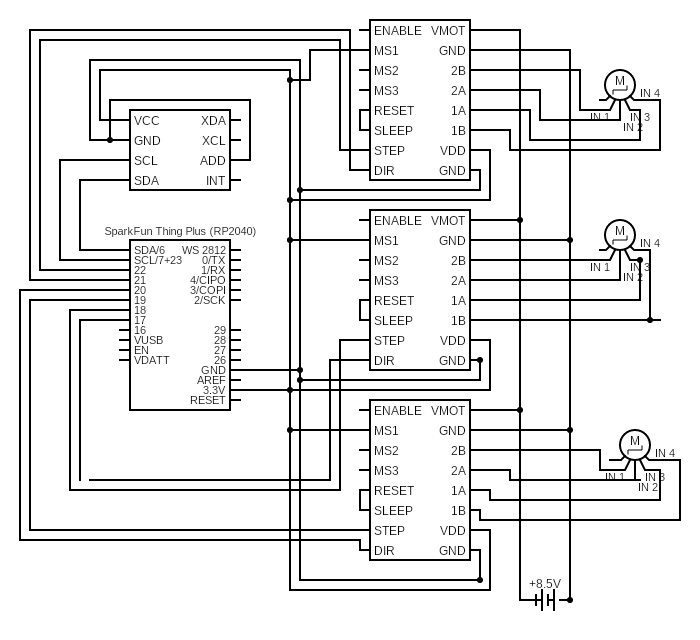
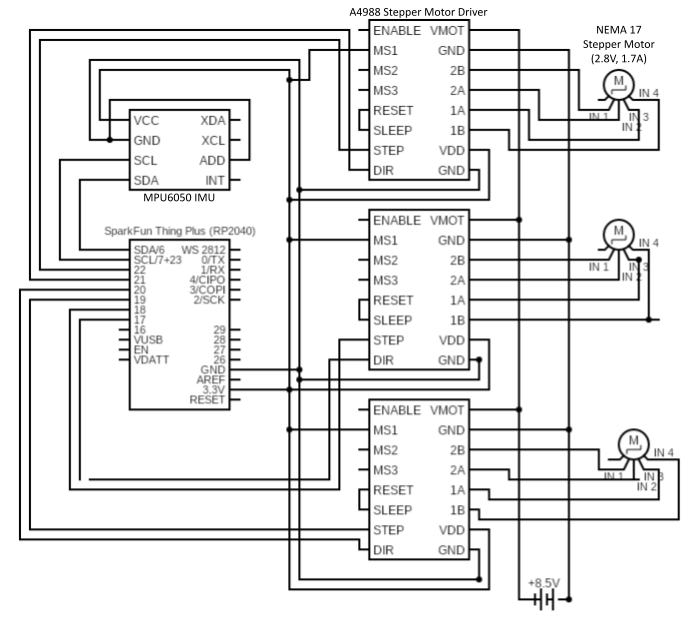
Finishing ballbot post

Changed region(s): [[0.0301, 0.0, 0.9943, 0.953]]

diff --git a/_posts/2022-03-18-BallBot.md b/_posts/2022-03-18-BallBot.md
@@ -1,0 +1,83 @@
+---
+layout: post
+title:  "Ball Balancing Robot"
+categories: [ Mechatronics, Controls, Solidworks, C ]
+image: assets/images/first_steps.gif
+featured: true
+hidden: true
+---
+
+Mechanical Design / Mechatronics / PID Control
+
+<iframe width="560" height="315" src="https://www.youtube.com/embed/7S1Z_5BLMUo" title="YouTube video player" frameborder="0" allow="accelerometer; autoplay; clipboard-write; encrypted-media; gyroscope; picture-in-picture" allowfullscreen></iframe>
+
+For my winter quarter independent study project, set out to build my own version of a BallBot, a dynamically stable / statically unstable robot. I am designed my bot from CAD to control algorithm, utilizing 3D printing, laser cutting, and C programming on an RP2040 microcontroller. 
+
+### Mechanical Design
+
+![CAD](https://algarv.github.io/Portfolio/assets/images/ballbot_CAD.png)
+
+I designed my chassis with inspiration from similar projects using Solidwork CAD to create 4 part adjustabl base. Each motor housing component is attached to the main chassis separately, so the angle can be adjusted, which allowed me to test on various sizes of balls. 
+
+### Building the Structure and Fundamental Electronics
+
+![Circuit Diagram](https://algarv.github.io/Portfolio/assets/images/circuit.png)
+
+
+After printing and assembling the chassis pieces, I mounted the 3 motors with 3 motor drivers and a RP2040 ThingPlus microcontroller and started with the basic control of one motor, working on a script to step one wheel at a time.
+
+![Spinning](https://algarv.github.io/Portfolio/assets/images/spinning.gif)
+
+### Simultaneous Motor Control
+
+The next step was to simultaneously step three motors. This proved to be a more difficult task than anticipated, as it seemed one motor would interfere with the other's power source. However, after switching to drivers with a higher voltage rating, I was able to step each motor sequentially. 
+
+Once I could send alternating stepping commands to each motor, the base could perform basic directional movement including spinning in place and uniaxial paths (forwards, backwards, sideways).
+
+![Simultaneous Spinning](https://algarv.github.io/Portfolio/assets/images/simulatenous_spinning.gif)
+
+![First Steps](https://algarv.github.io/Portfolio/assets/images/first_steps.gif)
+
+### Twist Commands
+![Calculations](https://algarv.github.io/Portfolio/assets/images/ballbot_calcs.png)
+Deriving wheel rotation rate from a twist
+
+To make a truly omnidirectional base, the next step was to follow any twist, which require stepping the motors at different frequencies. I started with the most basic form of a control algorithm, a polling loop that stepped each motor after a calculated number of sleep cycles resulting in a wheel RPM calculated by the omnidirectional base matrix equation.
+
+![Mobile Base](https://algarv.github.io/Portfolio/assets/images/omnidirectional.gif)
+
+### Position Control
+
+![Control Diagram](https://algarv.github.io/Portfolio/assets/images/control_diagram.png)
+
+Once the mobile base was capable of following any twist command, it was time to integrate the IMU sensor and create a closed control loop. In my first iteration, only the accelerometer data from the IMU was used to calculate a roll and pitch, which were then used as inputs to the PD controller. The PD controller outputs an x and y velocity relative to the robot's base frame, which are then converted to wheel speeds and finally step delays using the omnidirectional base equation shown above. 
+
+### Self-Righting
+
+The first milestone on the way to balancing was having the robot self-right itself back to a stable position on a ball. During testing, it became apparent that the motors would need to be stepped much faster in order for the robot to catch itself when the ball is not stabilized. 
+
+![Self Righting](https://algarv.github.io/Portfolio/assets/images/self_righting.gif)
+
+### Design Adjustments
+
+I redesigned the initial concept and chose to try a much larger ball in order to reduce the angle of lean and therefor the lever arm of the robot's body over its center of mass. This, along with reducing to half steps, resulted in a smoother self-righting action but the wheel stepping was still prohibitively slow.
+
+![A Little Smoother](https://algarv.github.io/Portfolio/assets/images/smoother.gif)
+
+### Control Adjustments and Sensor Tuning
+
+I tried several different approaches to the control algorithm once it became apparent that a simple polling loop would not step the motors at the required frequency. When I realized system clock-based interrupts were not support on the rp2040, I attempted 3 separate timers, with each frequency updated after every update from the IMU. While this was successful in spinning the wheels much faster, three timers could not keep up with the step frequency and the reliability of the original polling loop was lost. This was most likely due to the constant resetting of the timers and the competing operations with no set priorities. Finally, I was able to merge the control strategies and create a single timer at a fixed frequency that then counted the number of cycles since the previous step and compared the count to the calculated step delay. This significantly increased the speed of the wheels without compromising a quick and accurate twist response. 
+
+![Good Control](https://algarv.github.io/Portfolio/assets/images/good_control.gif)
+
+The timer came with a trade off between the IMU measurement frequency and the maximum step frequency, but I found reading the IMU at approximately 10 Hz (a 100 ms delay between measurements) and polling the motors at 500 Hz (a timer set to 2 Hz) was most successful in generating a fast enough reaction time while maintaining a high enough motor stepping frequency. 
+
+With the wheels more reactive, noise in the IMU also became more apparent. I started with a rolling average filter, which worked well to smooth the signal and reduce spikes. The rolling average was effective at slower speeds, but with a much more reactive control loop, I wanted to explore more advanced methods of sensor fusion. A complementary filter allowed me to supplement the noisy accelerometer data with the steadier (but driftier) gyroscope data. This significantly reduced the steady state measurement spikes from up to +/- 40 degree spikes to negligible noise when the bot is stable.
+
+![Getting Smoother](https://algarv.github.io/Portfolio/assets/images/complimentary_filter.gif)
+
+![Last Run](https://algarv.github.io/Portfolio/assets/images/final_run.gif)
+
+Ultimately, after carefully tuning the PD gains and tweaking timer frequencies, my ballbot could balance for about 2 seconds before tipping over and losing control. I believe my biggest limitation was the tradeoff between measurement frequency and stepping frequency, and would like to try timer-based interrupts in future iteration or even separating the controller into multiple cores that could run the motor stepping commands and read the IMU simultaneously.
+
+https://github.com/algarv/Ball_Balancing_Robot/
